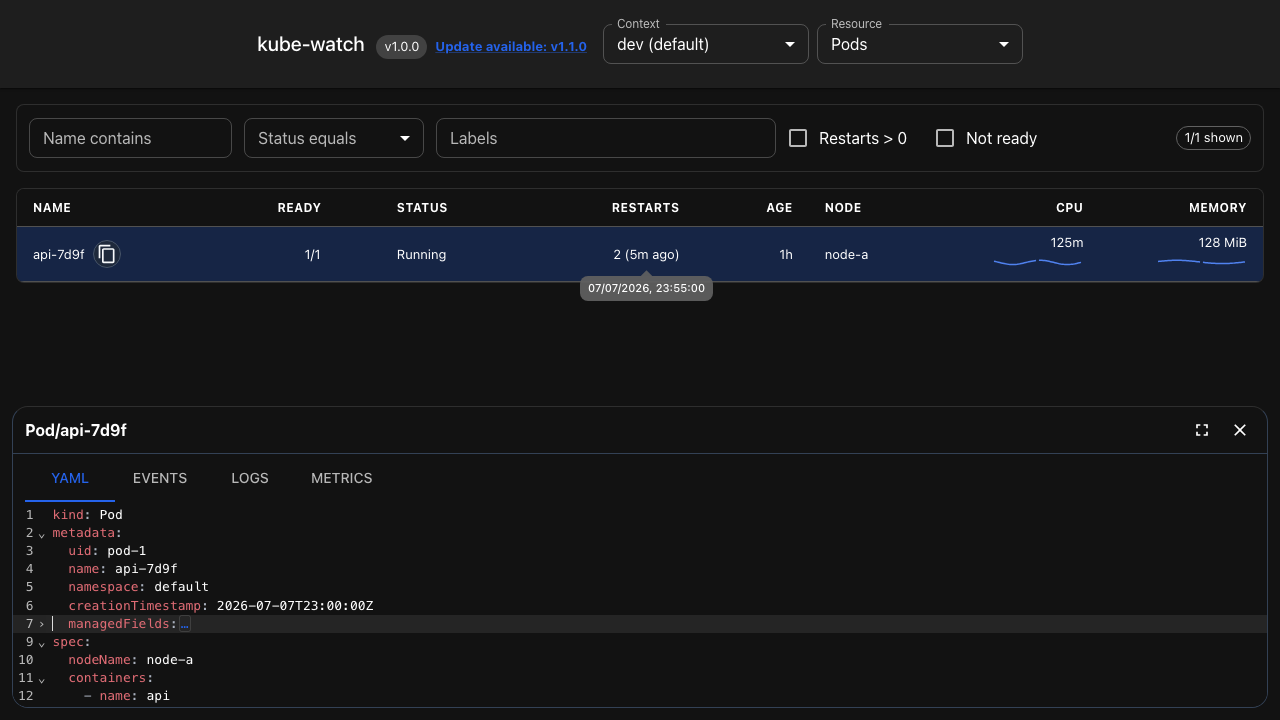
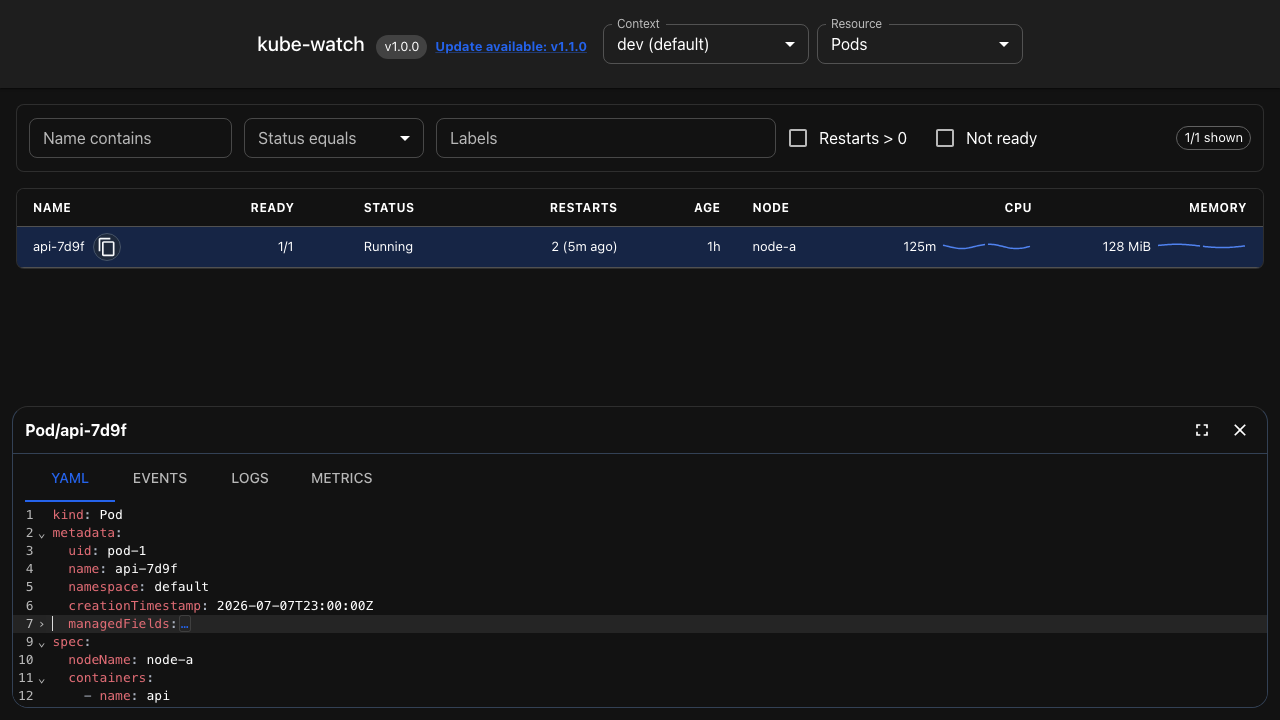
Place usage values beside sparklines when space permits

diff --git a/web/e2e/app.spec.ts b/web/e2e/app.spec.ts
@@ -488,3 +488,27 @@ test('keeps resource browsing available when the Metrics API is missing', async 
   await page.getByRole('tab', { name: 'YAML' }).click()
   await expect(page.locator('.yaml-editor')).toBeVisible()
 })
+
+test('keeps sparklines beside values when columns have room and wraps them when narrow', async ({ page }) => {
+  await page.setViewportSize({ width: 1600, height: 900 })
+  await page.goto('/view/dev/pods')
+  const row = page.getByRole('row', { name: /api-7d9f/ })
+  await expect(row).toContainText('125m')
+  const cells = [row.getByRole('cell').filter({ has: page.getByText('125m', { exact: true }) }), row.getByRole('cell').filter({ has: page.getByText('128 MiB', { exact: true }) })]
+  for (const cell of cells) {
+    const value = await cell.locator('span').boundingBox()
+    const graph = await cell.getByRole('img').boundingBox()
+    expect(value).not.toBeNull()
+    expect(graph).not.toBeNull()
+    expect(Math.abs(value!.y + value!.height / 2 - graph!.y - graph!.height / 2)).toBeLessThan(2)
+    expect(graph!.x).toBeGreaterThan(value!.x + value!.width)
+  }
+  await page.setViewportSize({ width: 720, height: 900 })
+  for (const cell of cells) {
+    await expect.poll(async () => {
+      const value = await cell.locator('span').boundingBox()
+      const graph = await cell.getByRole('img').boundingBox()
+      return graph!.y >= value!.y + value!.height
+    }).toBe(true)
+  }
+})

diff --git a/web/src/components/MetricsDetails.tsx b/web/src/components/MetricsDetails.tsx
@@ -9,8 +9,8 @@ export function metricColumns(snapshot?: MetricsSnapshot): Column[] {
     sortValue: object => snapshot?.items?.[object.metadata?.uid]?.usage?.[metric] ?? -1,
     value: object => {
       const w = snapshot?.items?.[object.metadata?.uid]
-      return <Stack sx={{ alignItems: 'flex-end' }} title={w ? coverage(w, object.kind === 'Deployment') : 'Metrics unavailable'}>
-        <span>{formatUsage(w?.usage?.[metric], metric)}{w && w.reporting < w.expected && w.usage ? ' *' : ''}</span>
+      return <Stack direction="row" sx={{ flexWrap: 'wrap', alignItems: 'center', justifyContent: 'flex-end', gap: 0.75 }} title={w ? coverage(w, object.kind === 'Deployment') : 'Metrics unavailable'}>
+        <span style={{ whiteSpace: 'nowrap' }}>{formatUsage(w?.usage?.[metric], metric)}{w && w.reporting < w.expected && w.usage ? ' *' : ''}</span>
         {w && snapshot && <UsageChart points={w.history} metric={metric} now={snapshot.time} compact />}
       </Stack>
     },

diff --git a/web/src/components/UsageChart.tsx b/web/src/components/UsageChart.tsx
@@ -41,7 +41,7 @@ export function UsageChart({ points, metric, now, compact = false, request = 0, 
   const nearest = hover === null ? undefined : values.reduce<typeof values[number] | undefined>((best, p) => !best || Math.abs(p.time - hover) < Math.abs(best.time - hover) ? p : best, undefined)
   const label = `${metric === 'cpu' ? 'CPU' : 'Memory'} usage over the last 15 minutes`
   return (
-    <Box sx={{ minWidth: 0, color: theme => theme.palette.mode === 'dark' ? theme.palette.primary.light : theme.palette.primary.main, width: compact ? 90 : '100%' }}>
+    <Box sx={{ minWidth: 0, color: theme => theme.palette.mode === 'dark' ? theme.palette.primary.light : theme.palette.primary.main, width: compact ? 90 : '100%', flexShrink: 0 }}>
       <svg role="img" aria-label={label} viewBox={`0 0 ${width} ${height}`} style={{ width: '100%', display: 'block' }}
         onPointerLeave={() => setHover(null)}
         onPointerMove={compact ? undefined : event => {

diff --git a/README.md b/README.md
@@ -142,7 +142,7 @@ Next planned improvements include CLI flags for log level, snapshot persistence,
 
 ### CPU and memory trends
 
-Pods and Deployments show sortable CPU (millicores) and memory (MiB/GiB) columns with 15-minute sparklines. Select a row and open **Metrics** for larger charts, sampled values on hover, configured request/limit reference lines with labelled colour swatches, and container or pod breakdowns. Equal request and limit values share one dashed line so their patterns do not overlap. The panel can be maximized like the other detail tabs.
+Pods and Deployments show sortable CPU (millicores) and memory (MiB/GiB) columns with 15-minute sparklines. Values and sparklines share a line when the column has room, with the sparkline wrapping underneath in narrower columns. Select a row and open **Metrics** for larger charts, sampled values on hover, configured request/limit reference lines with labelled colour swatches, and container or pod breakdowns. Equal request and limit values share one dashed line so their patterns do not overlap. The panel can be maximized like the other detail tabs.
 
 Metrics use the Kubernetes Metrics API, the source behind `kubectl top`. The active kubeconfig user needs `list` on `pods.metrics.k8s.io` and core `pods` in the context's namespace. Deployment metrics additionally need `list` on `replicasets.apps` and `deployments.apps`. kube-watch does not install Metrics Server or change RBAC. Missing API access is shown as a warning while the resource list remains usable.
 
